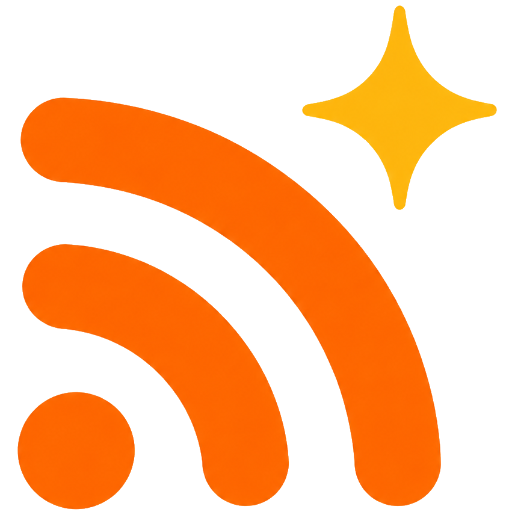
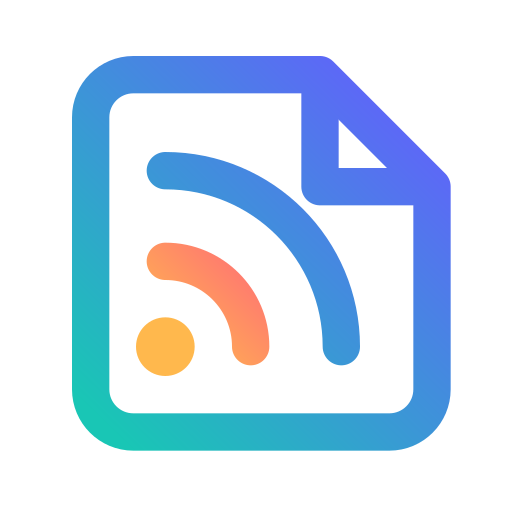
Refresh RSS reader branding

diff --git a/vite.config.ts b/vite.config.ts
@@ -20,8 +20,13 @@ export default defineConfig({
       srcDir: 'src',
       filename: 'service-worker.ts',
       includeAssets: [
+        'brand-mark.svg',
         'favicon.png',
+        'favicon-16x16.png',
+        'favicon-32x32.png',
         'apple-touch-icon.png',
+        'android-chrome-192x192.png',
+        'android-chrome-512x512.png',
         'favicon.ico',
         'manifest.json',
       ],
@@ -48,6 +53,7 @@ export default defineConfig({
                 src: '/android-chrome-192x192.png',
                 sizes: '192x192',
                 type: 'image/png',
+                purpose: 'any',
               },
             ],
           },
@@ -61,6 +67,7 @@ export default defineConfig({
                 src: '/android-chrome-192x192.png',
                 sizes: '192x192',
                 type: 'image/png',
+                purpose: 'any',
               },
             ],
           },
@@ -74,6 +81,7 @@ export default defineConfig({
                 src: '/android-chrome-192x192.png',
                 sizes: '192x192',
                 type: 'image/png',
+                purpose: 'any',
               },
             ],
           },
@@ -87,6 +95,7 @@ export default defineConfig({
                 src: '/android-chrome-192x192.png',
                 sizes: '192x192',
                 type: 'image/png',
+                purpose: 'any',
               },
             ],
           },
@@ -96,17 +105,13 @@ export default defineConfig({
             src: '/android-chrome-192x192.png',
             sizes: '192x192',
             type: 'image/png',
+            purpose: 'any',
           },
           {
             src: '/android-chrome-512x512.png',
             sizes: '512x512',
             type: 'image/png',
-          },
-          {
-            src: '/android-chrome-512x512.png',
-            sizes: '512x512',
-            type: 'image/png',
-            purpose: 'any maskable',
+            purpose: 'any',
           },
         ],
       },

diff --git a/src/lib/offline/pwa.test.ts b/src/lib/offline/pwa.test.ts
@@ -5,11 +5,12 @@ import { describe, expect, it } from 'vitest';
 const root = process.cwd();
 
 describe('offline PWA contract', () => {
-  it('publishes all authenticated entry-point shortcuts', () => {
+  it('publishes transparent-safe icons and authenticated entry-point shortcuts', () => {
     const manifest = JSON.parse(
       readFileSync(resolve(root, 'static/manifest.json'), 'utf8'),
     ) as {
       shortcuts?: Array<{ url?: string }>;
+      icons?: Array<{ purpose?: string }>;
     };
 
     expect(manifest.shortcuts?.map((shortcut) => shortcut.url)).toEqual([
@@ -18,6 +19,10 @@ describe('offline PWA contract', () => {
       '/digest',
       '/saved',
     ]);
+    expect(manifest.icons?.map((icon) => icon.purpose)).toEqual(['any', 'any']);
+    expect(readFileSync(resolve(root, 'vite.config.ts'), 'utf8')).not.toContain(
+      "purpose: 'any maskable'",
+    );
   });
 
   it('keeps the custom worker authenticated-navigation safe', () => {

diff --git a/src/routes/+layout.svelte b/src/routes/+layout.svelte
@@ -10,6 +10,7 @@
   import { fade, fly } from 'svelte/transition';
   import { invalidateAll } from '$app/navigation';
   import PWABanner from '$lib/components/PWABanner.svelte';
+  import BrandMark from '$lib/components/BrandMark.svelte';
   import KeyboardShortcuts from '$lib/components/KeyboardShortcuts.svelte';
 
   import { syncFeeds } from '$lib/feeds';
@@ -456,9 +457,12 @@
         <a
           href="/"
           data-sveltekit-preload-data
-          class="gradient-text text-xl font-bold no-underline"
+          class="inline-flex items-center gap-2 no-underline"
         >
-          Feed Me Maybe
+          <BrandMark size={32} class="shrink-0" />
+          <span class="gradient-text text-lg font-bold tracking-tight">
+            Feed Me <span class="italic">Maybe</span>
+          </span>
         </a>
       </div>
 

diff --git a/src/app.html b/src/app.html
@@ -2,7 +2,24 @@
 <html lang="en">
   <head>
     <meta charset="utf-8" />
-    <link rel="icon" href="%sveltekit.assets%/favicon.png" />
+    <link
+      rel="icon"
+      type="image/svg+xml"
+      href="%sveltekit.assets%/brand-mark.svg"
+    />
+    <link
+      rel="icon"
+      type="image/png"
+      sizes="32x32"
+      href="%sveltekit.assets%/favicon-32x32.png"
+    />
+    <link
+      rel="icon"
+      type="image/png"
+      sizes="16x16"
+      href="%sveltekit.assets%/favicon-16x16.png"
+    />
+    <link rel="shortcut icon" href="%sveltekit.assets%/favicon.ico" />
     <link rel="apple-touch-icon" href="/apple-touch-icon.png" sizes="180x180" />
     <link rel="manifest" href="/manifest.json" />
     <meta

diff --git a/src/routes/login/+page.svelte b/src/routes/login/+page.svelte
@@ -1,5 +1,6 @@
 <script lang="ts">
   import { fly, fade } from 'svelte/transition';
+  import BrandMark from '$lib/components/BrandMark.svelte';
   let { form } = $props();
 </script>
 
@@ -7,8 +8,9 @@
   <div class="w-full max-w-sm">
     <!-- App title -->
     <div class="mb-8 text-center" in:fade={{ duration: 400 }}>
+      <BrandMark size={72} class="mx-auto mb-4" />
       <h1 class="gradient-text text-4xl font-extrabold tracking-tight">
-        Feed Me Maybe
+        Feed Me <span class="italic">Maybe</span>
       </h1>
       <p
         class="mt-3 text-sm"

diff --git a/src/lib/components/BrandMark.svelte b/src/lib/components/BrandMark.svelte
@@ -1,0 +1,14 @@
+<script lang="ts">
+  let { size = 36, class: className = '' }: { size?: number; class?: string } =
+    $props();
+</script>
+
+<img
+  src="/brand-mark.svg"
+  width={size}
+  height={size}
+  alt=""
+  aria-hidden="true"
+  draggable="false"
+  class={className}
+/>
